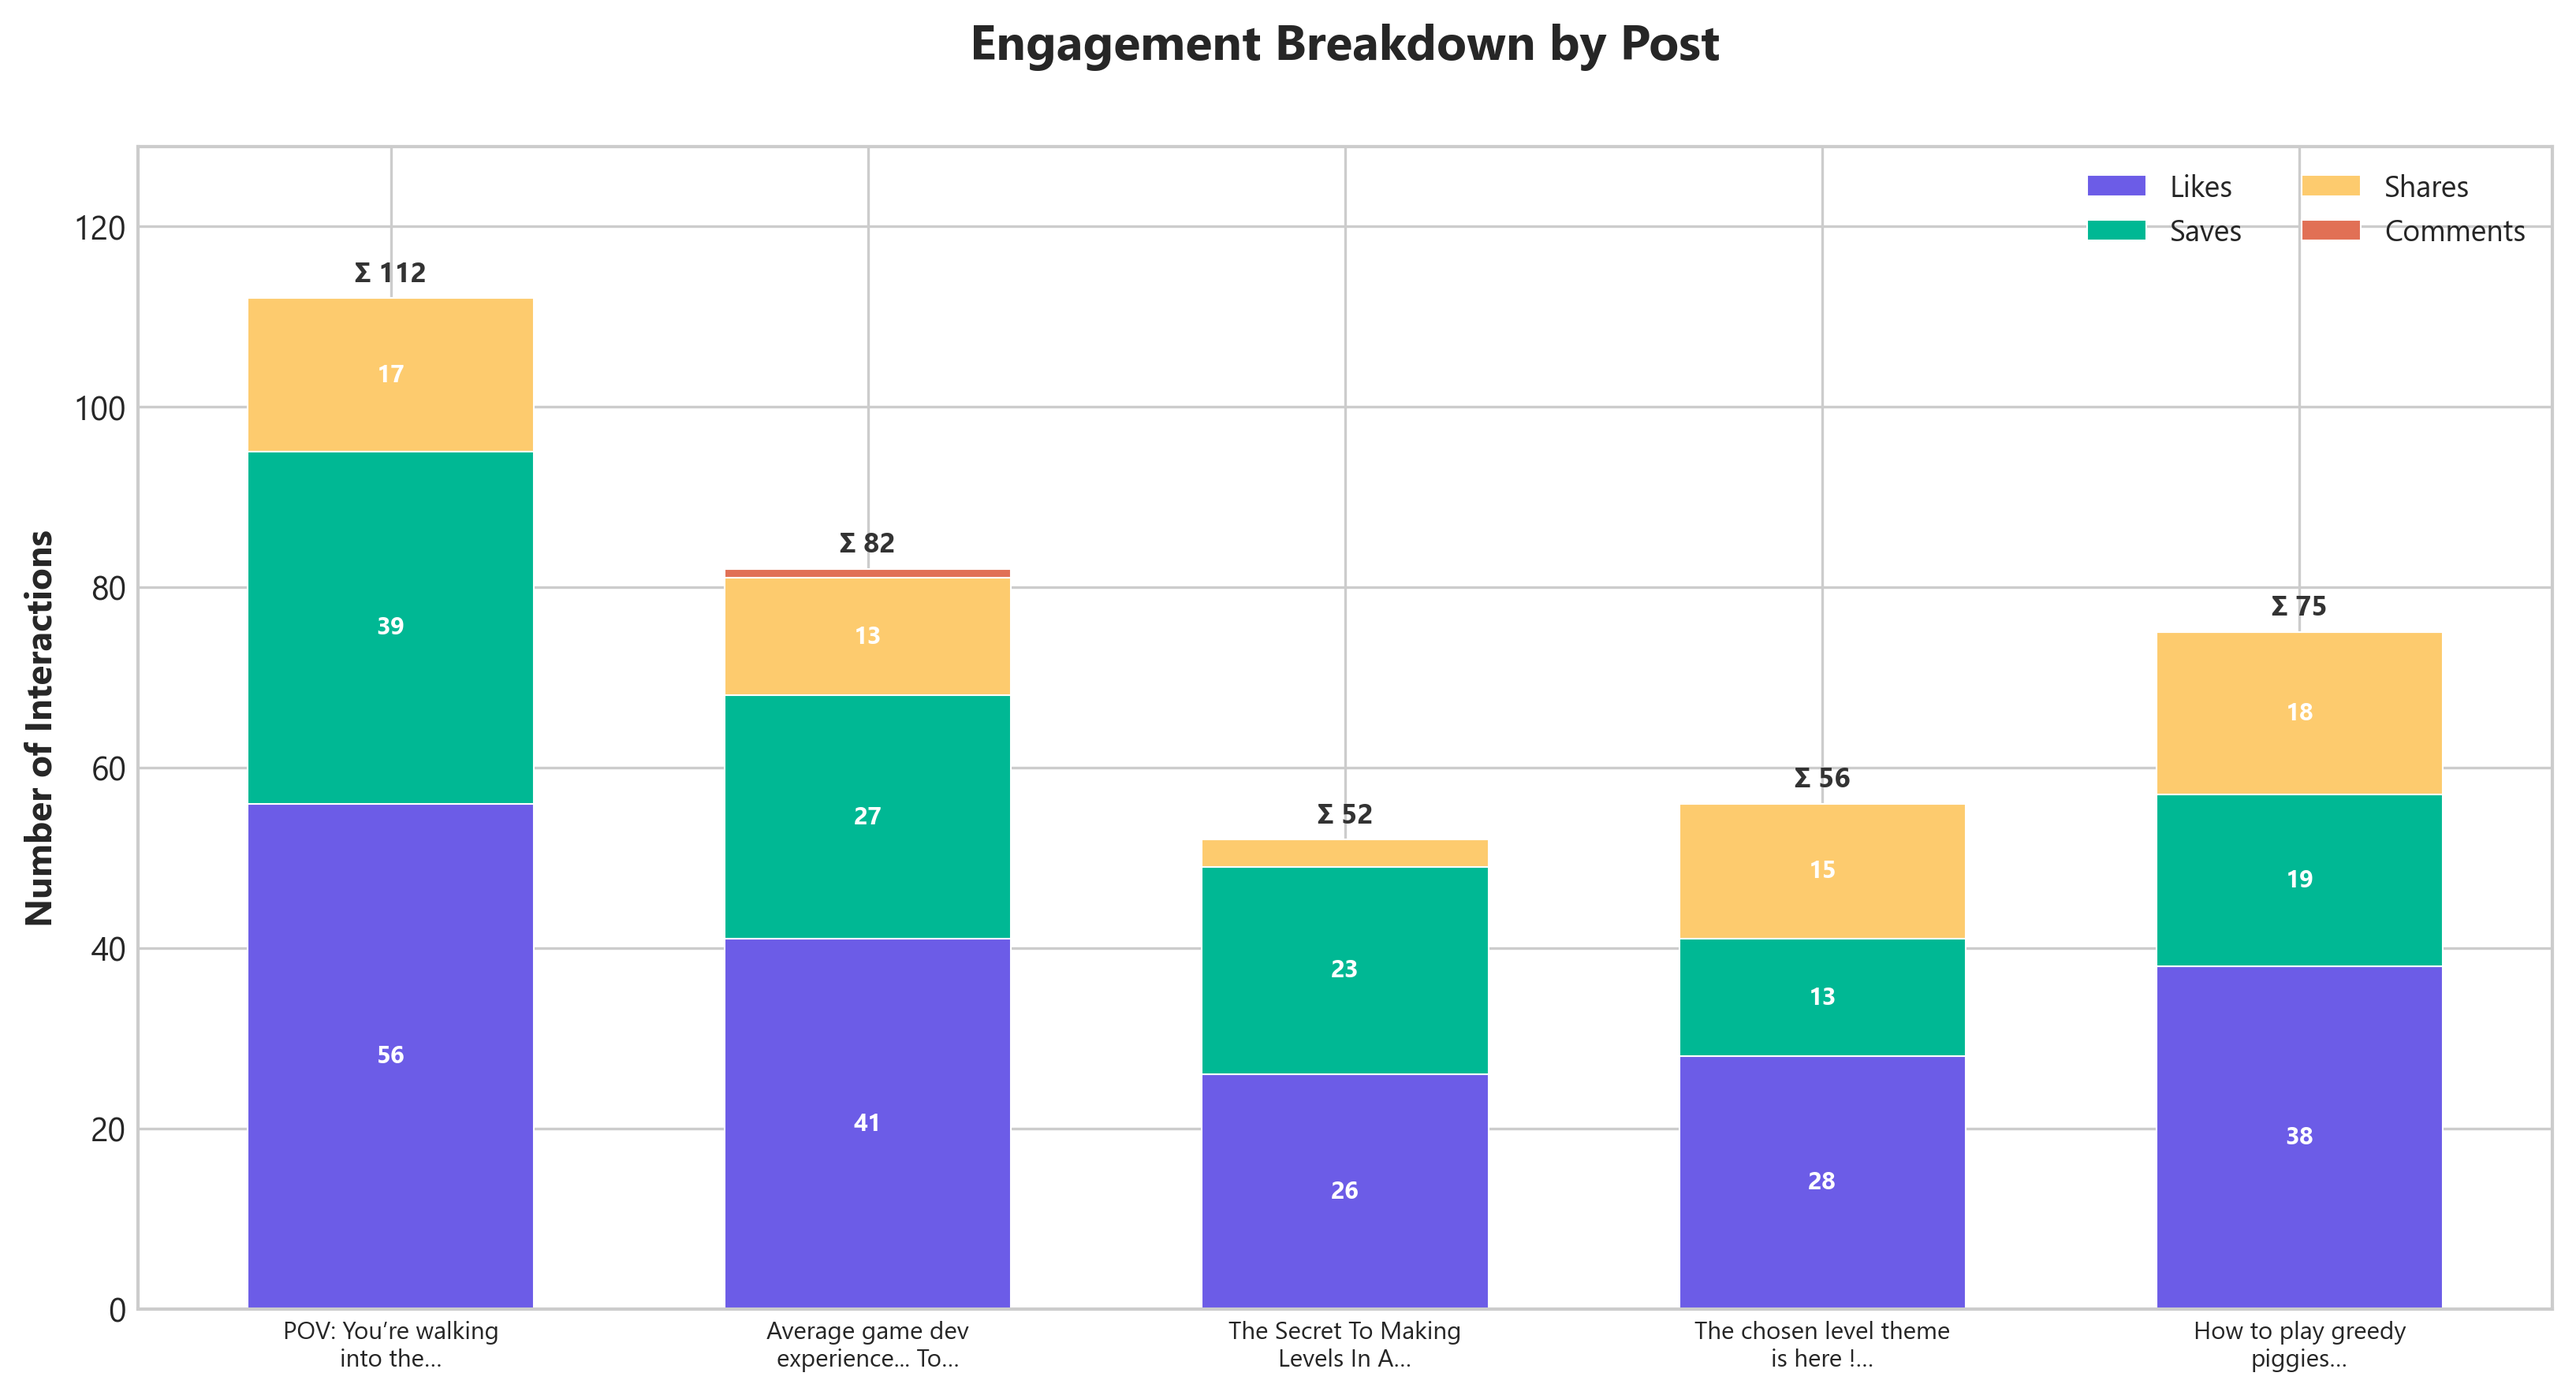
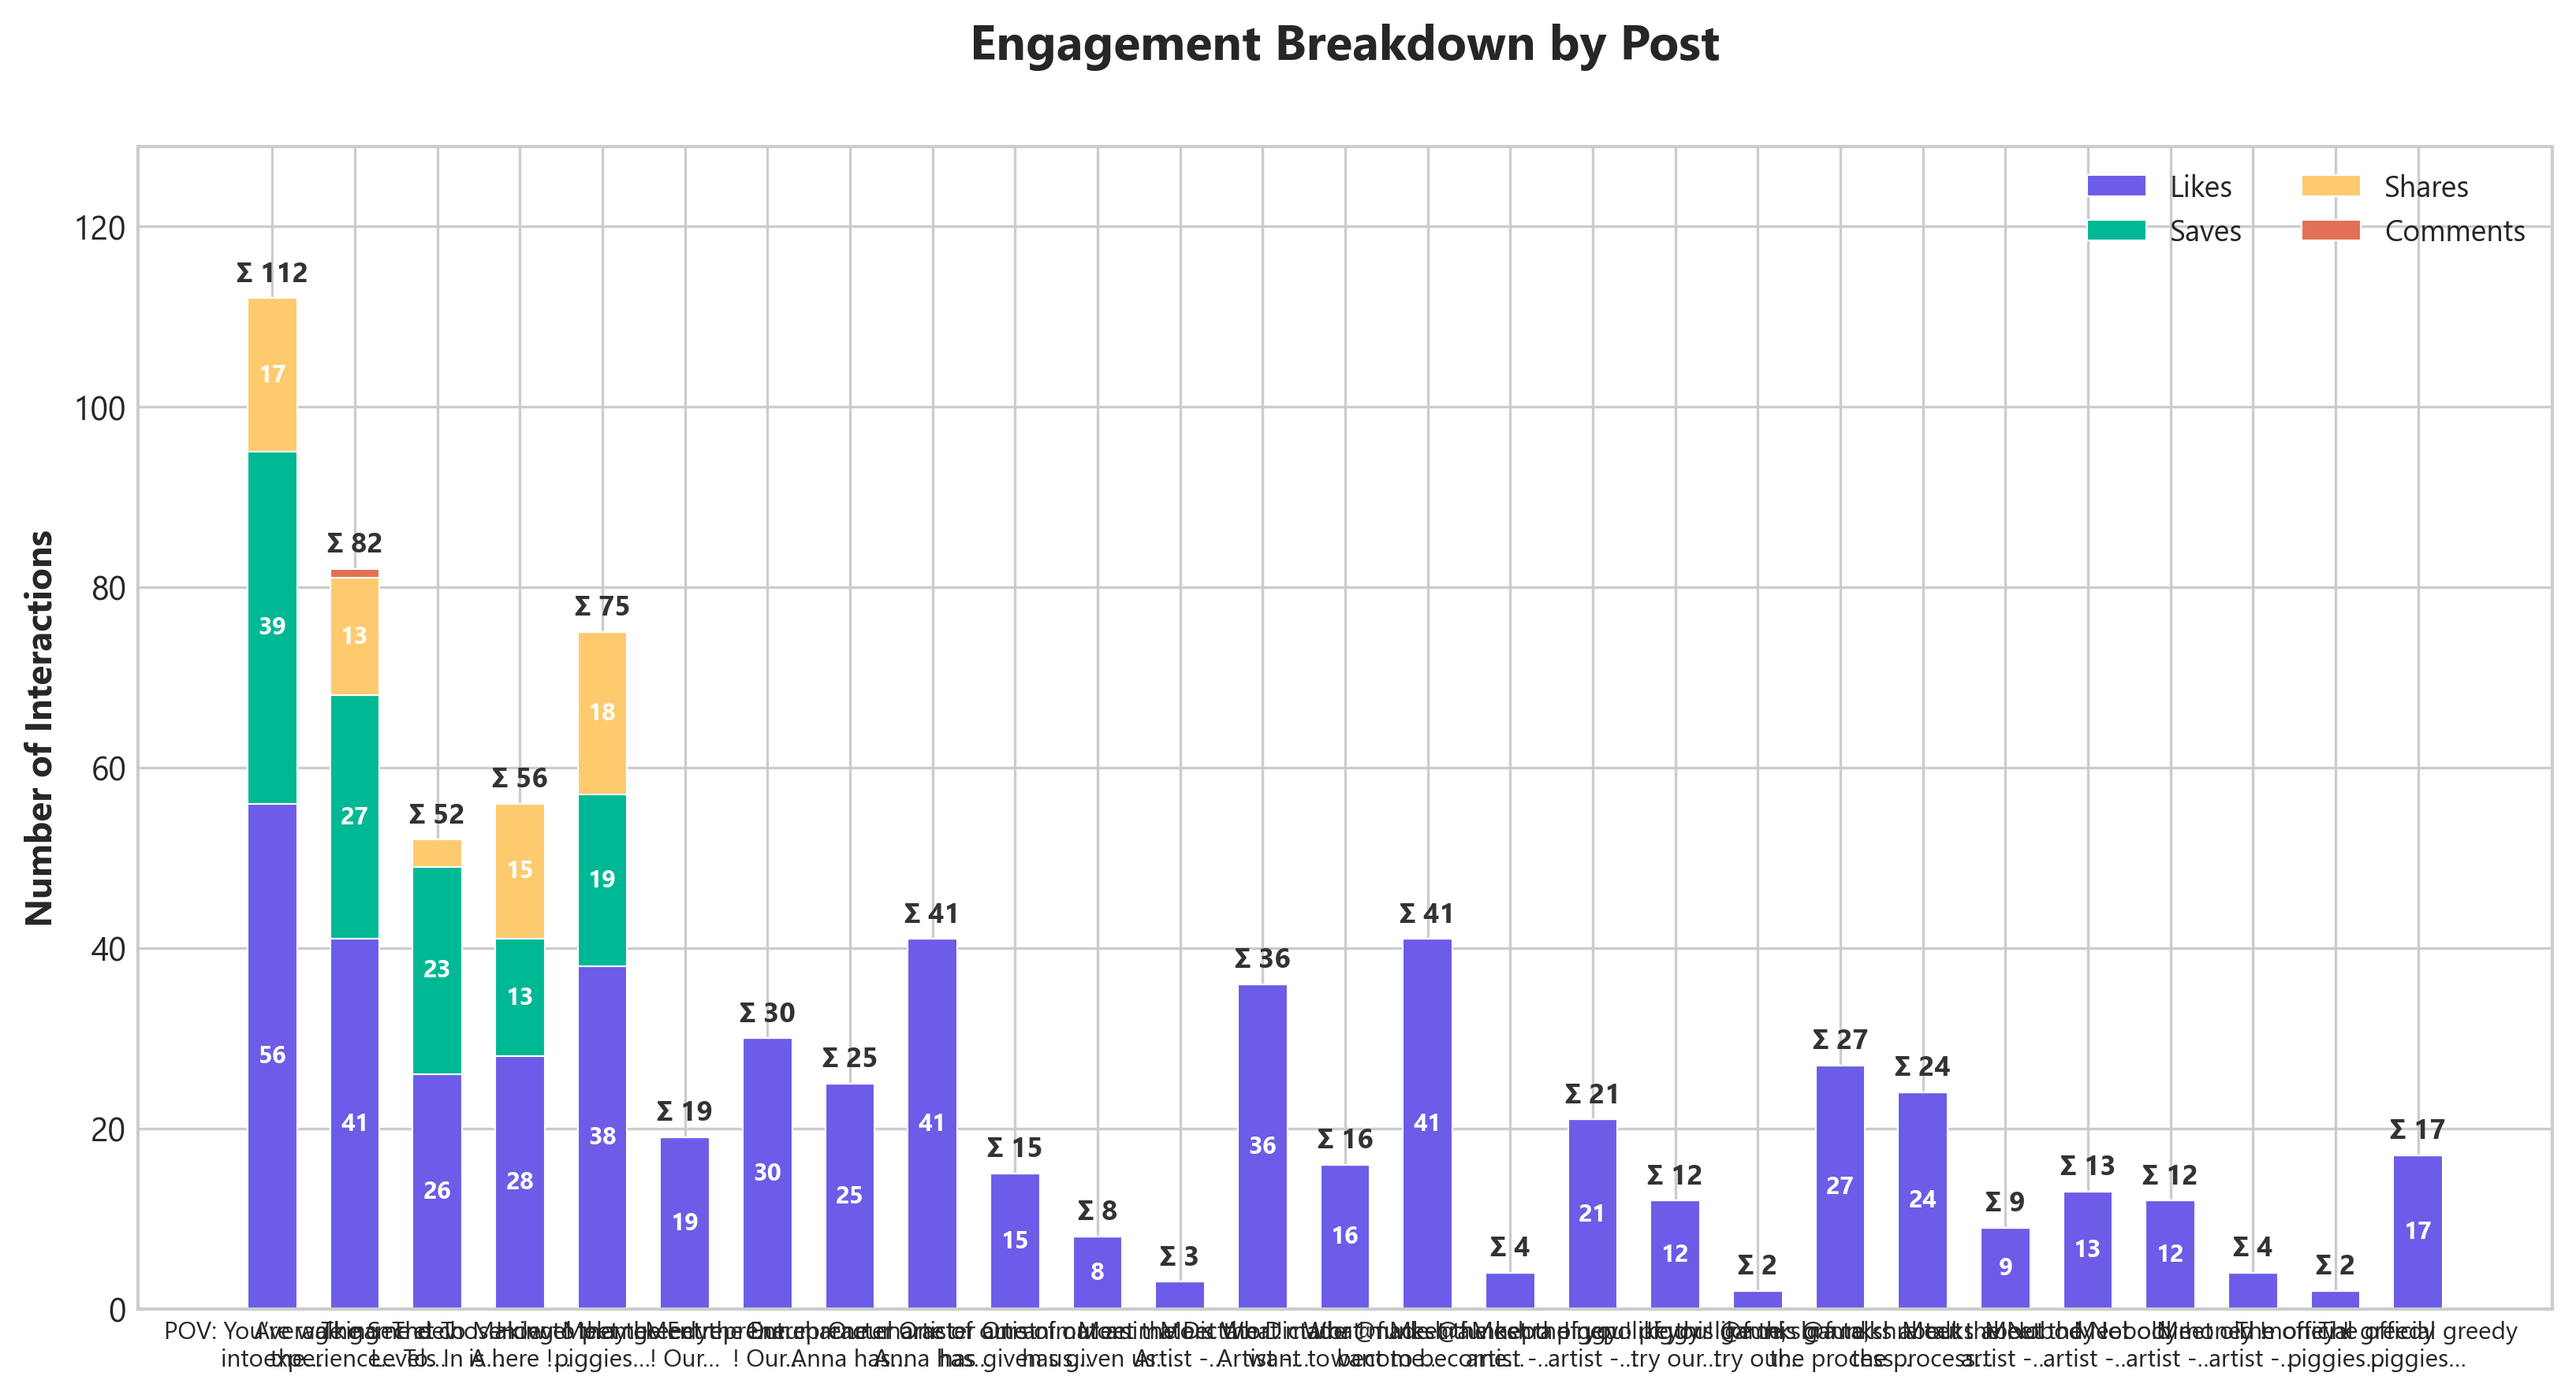
updated anaylsis report

Changed region(s): [[0.0624, 0.1864, 0.9679, 0.9944]]

diff --git a/Task 6/Metricool analysis/greedy_piggies_analysis.py b/Task 6/Metricool analysis/greedy_piggies_analysis.py
@@ -20,7 +20,7 @@ import os, textwrap
 # ──────────────────────────────────────────────
 # 0.  Configuration
 # ──────────────────────────────────────────────
-DATA_PATH = os.path.join(os.path.dirname(__file__), "reels_performance_metrics.csv")
+DATA_PATH = os.path.join(os.path.dirname(__file__), "updated_reels_performance_metrics.csv")
 OUT_DIR   = os.path.dirname(__file__)
 DPI       = 300
 
@@ -51,6 +51,9 @@ plt.rcParams.update({
 # 1.  Data Loading & Processing
 # ──────────────────────────────────────────────
 df = pd.read_csv(DATA_PATH)
+for col in ["Reach", "Engagement Rate (%)", "Likes", "Saves", "Shares", "Comments", "Avg Watch Time (s)"]:
+    if col in df.columns:
+        df[col] = pd.to_numeric(df[col], errors="coerce").fillna(0)
 
 # Strip whitespace from column names
 df.columns = df.columns.str.strip()
@@ -63,8 +66,10 @@ df.reset_index(drop=True, inplace=True)
 # Convert Duration (M:SS) to total seconds
 def duration_to_seconds(val):
     """Convert M:SS or H:MM:SS string to total seconds."""
+    if pd.isna(val) or str(val).lower() == "nan":
+        return 0
     parts = str(val).split(":")
-    parts = [int(p) for p in parts]
+    parts = [int(p) for p in parts if p.strip().isdigit()]
     if len(parts) == 2:
         return parts[0] * 60 + parts[1]
     elif len(parts) == 3:

diff --git a/Task 6/Metricool analysis/Summary_Analysis.md b/Task 6/Metricool analysis/Summary_Analysis.md
@@ -10,17 +10,17 @@
 
 | Metric | Value |
 |---|---|
-| **Total Posts Analyzed** | 5 |
-| **Average Reach** | 192 |
-| **Peak Reach** | 401 |
+| **Total Posts Analyzed** | 27 |
+| **Average Reach** | 372 |
+| **Peak Reach** | 794 |
 | **Average Impressions** | 370 |
-| **Average Engagement Rate** | 23.48% |
+| **Average Engagement Rate** | 4.35% |
 | **Peak Engagement Rate** | 40.86% |
-| **Total Likes** | 189 |
-| **Total Saves** | 121 |
-| **Total Shares** | 66 |
-| **Total Comments** | 1 |
-| **Average Watch Time** | 40.2s |
+| **Total Likes** | 570 |
+| **Total Saves** | 121.0 |
+| **Total Shares** | 66.0 |
+| **Total Comments** | 1.0 |
+| **Average Watch Time** | 7.4s |
 
 ---
 
@@ -55,21 +55,20 @@ Based on a review of post captions, three distinct content strategies were emplo
 
 ## 📊 Visual Insights
 
-### Reach vs. Engagement 
+### Reach vs. Engagement (see `reach_vs_engagement.png`)
 An inverse trend is visible: the highest-reach post (401) had the lowest engagement rate (13.97%), while the lowest-reach post (93) had the highest engagement rate (40.86%). This is a common pattern—broader reach often means less targeted audiences. **Focus on engagement quality over raw reach.**
 
-![](https://raw.githubusercontent.com/kdogz9/Tools-and-production-Tasks/refs/heads/main/Metricool%20analysis/reach_vs_engagement.png)
-### Retention Sweet Spot 
+### Retention Sweet Spot (see `retention_analysis.png`)
 - The **14-second video** ("Secret To Making Levels") achieved the highest avg watch time of **44.1s** — a 3.15× replay ratio.
 - Shorter 8–9 second reels cluster around 37–41s avg watch time, still strong.
 - **Recommendation:** Videos in the **8–16 second range** are the sweet spot for this audience. They are short enough to trigger replays but long enough to convey value.
-![](https://raw.githubusercontent.com/kdogz9/Tools-and-production-Tasks/refs/heads/main/Metricool%20analysis/retention_analysis.png)
-### Engagement Breakdown 
+
+### Engagement Breakdown (see `engagement_breakdown.png`)
 - **Likes** dominate total interactions across all posts (avg 37.8 per post).
 - **Saves** are consistently high (avg 24.2)—an excellent signal of content value. Saves indicate "I want to come back to this."
 - **Shares** vary significantly (3–18), driven by meme or gameplay content.
 - **Comments** are critically low (only 1 comment total). This is the biggest growth opportunity.
-![](https://raw.githubusercontent.com/kdogz9/Tools-and-production-Tasks/refs/heads/main/Metricool%20analysis/engagement_breakdown.png)
+
 ---
 
 ## 🚀 Actionable Recommendations — Next 30 Days
